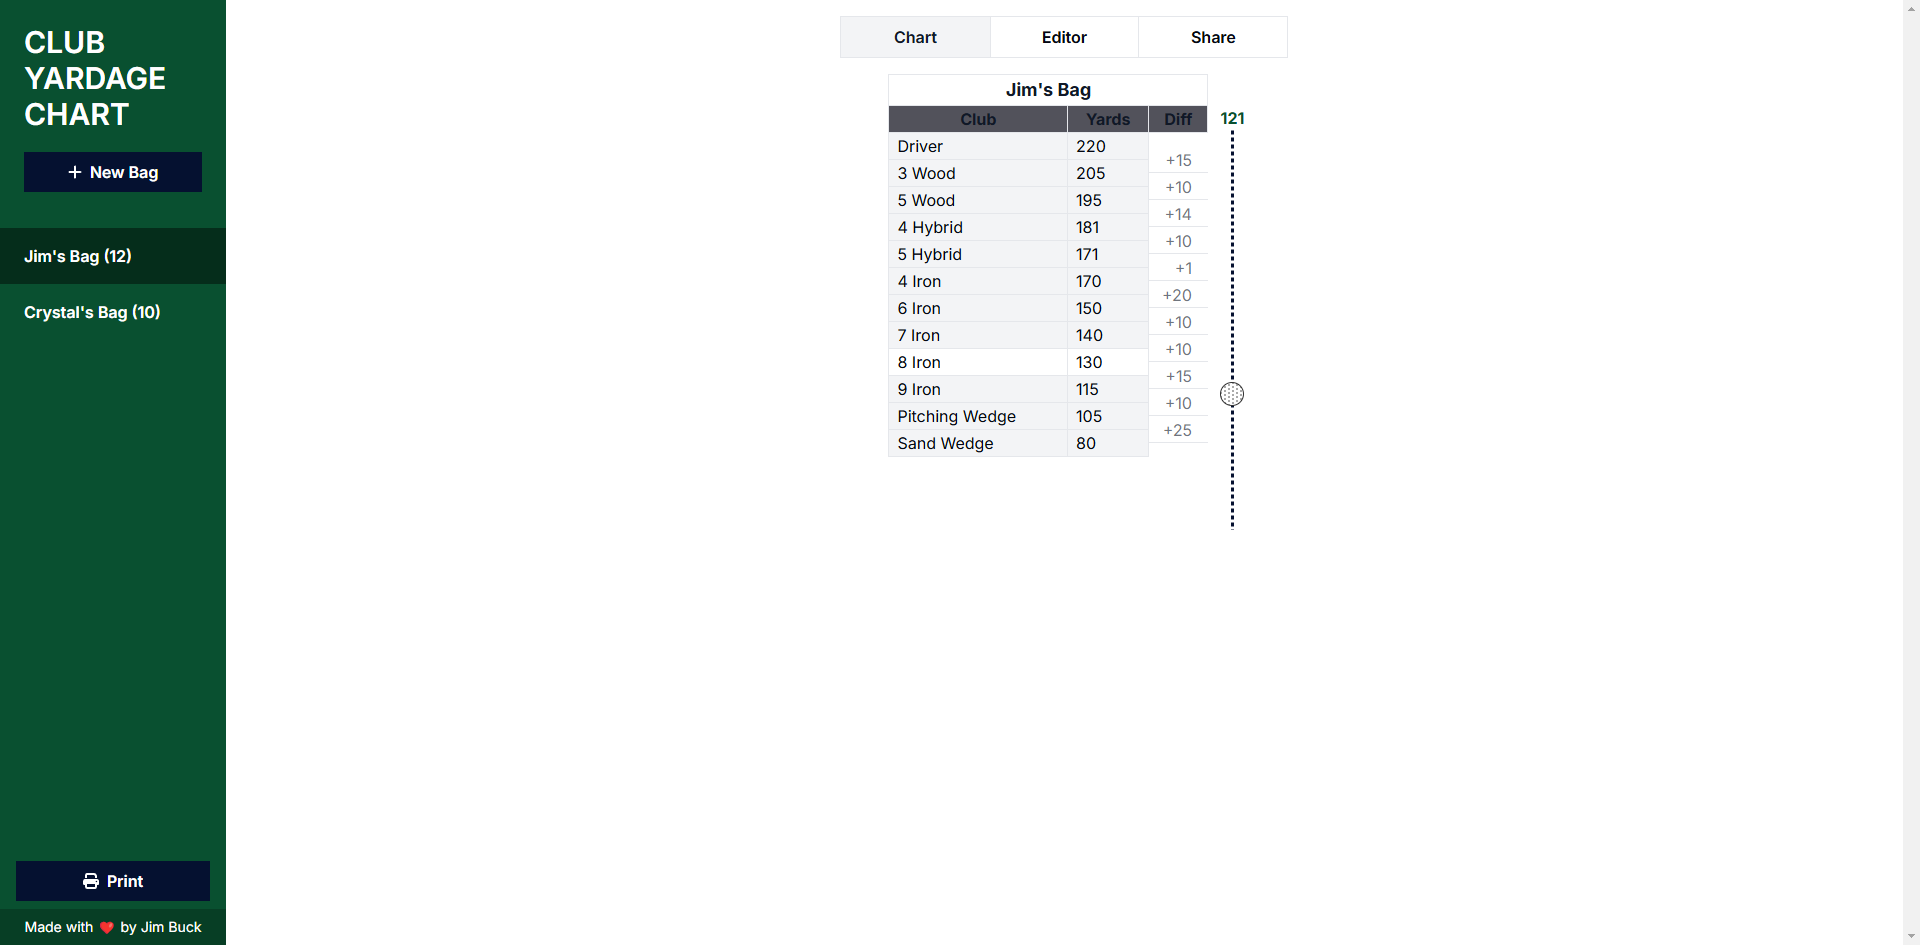
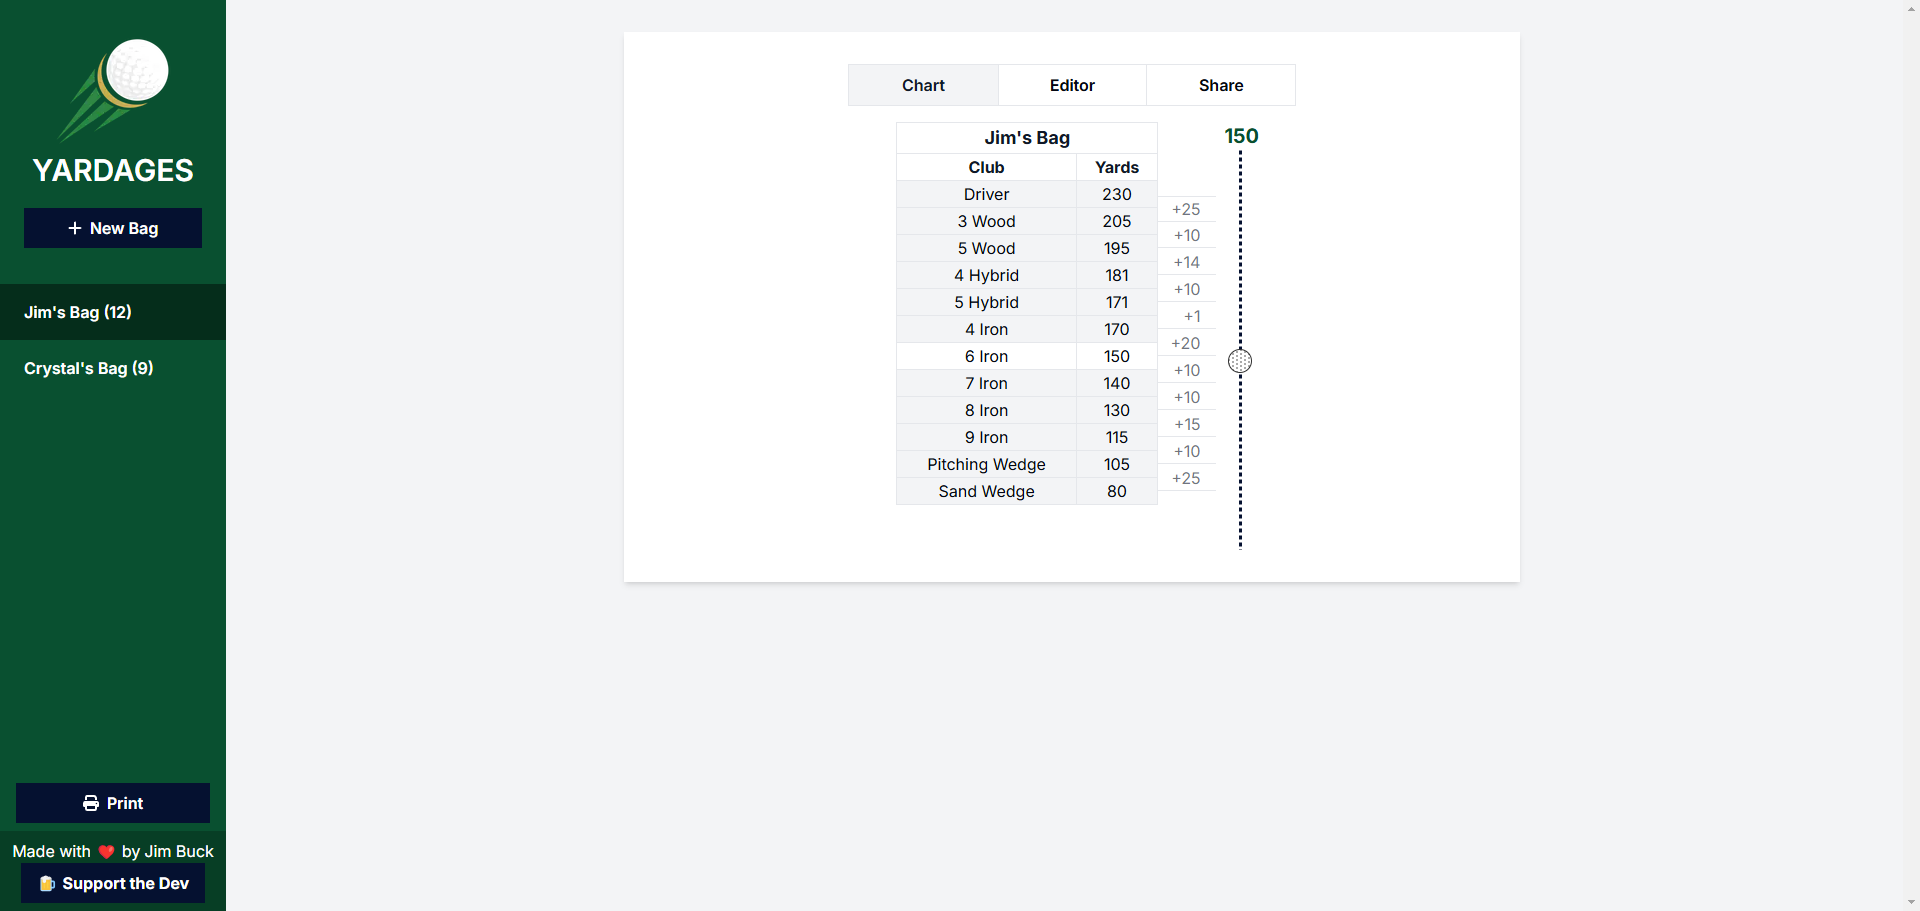
Updated screenshots and mobile padding.

diff --git a/src/app/bag/page.tsx b/src/app/bag/page.tsx
@@ -32,23 +32,23 @@ export default function BagPage() {
 
   return (<>
     <div className="flex items-start justify-center min-h-full bg-gray-100">
-      <div className="bg-white p-8 shadow-md w-full max-w-full w-fit sm:max-w-4xl text-center mt-8 mx-2 sm:mx-0">
+      <div className="bg-white p-8 shadow-md w-full max-w-full w-fit sm:max-w-4xl text-center mt-2 sm:mt-8 mx-2 sm:mx-0">
         <div className="w-full flex justify-center px-2 sm:px-8">
-      <div className="flex w-full max-w-md mx-auto">
-        <button className={cn('w-full py-2 border border-input bg-background hover:bg-accent hover:text-accent-foreground font-semibold border-r-0', pageMode === PageMode.Chart && 'bg-accent text-accent-foreground')} onClick={() => setPageMode(PageMode.Chart)}>Chart</button>
-        <button className={cn('w-full py-2 border border-input bg-background hover:bg-accent hover:text-accent-foreground font-semibold', pageMode === PageMode.Editor && 'bg-accent text-accent-foreground')} onClick={() => setPageMode(PageMode.Editor)}>Editor</button>
-        <button className={cn('w-full py-2 border border-input bg-background hover:bg-accent hover:text-accent-foreground font-semibold border-l-0', pageMode === PageMode.Share && 'bg-accent text-accent-foreground')} onClick={() => setPageMode(PageMode.Share)}>Share</button>
-      </div>
-    </div>
+          <div className="flex w-full max-w-md mx-auto">
+            <button className={cn('w-full py-2 border border-input bg-background hover:bg-accent hover:text-accent-foreground font-semibold border-r-0', pageMode === PageMode.Chart && 'bg-accent text-accent-foreground')} onClick={() => setPageMode(PageMode.Chart)}>Chart</button>
+            <button className={cn('w-full py-2 border border-input bg-background hover:bg-accent hover:text-accent-foreground font-semibold', pageMode === PageMode.Editor && 'bg-accent text-accent-foreground')} onClick={() => setPageMode(PageMode.Editor)}>Editor</button>
+            <button className={cn('w-full py-2 border border-input bg-background hover:bg-accent hover:text-accent-foreground font-semibold border-l-0', pageMode === PageMode.Share && 'bg-accent text-accent-foreground')} onClick={() => setPageMode(PageMode.Share)}>Share</button>
+          </div>
+        </div>
 
-    <div className={cn('printable print:flex print:pl-8 print:pt-8 w-full max-w-4xl mx-auto hidden', pageMode === PageMode.Chart && 'block')}>
-      <InteractiveYardageChart bag={bag} />
-    </div>
-    <div className={cn('print:hidden w-full max-w-4xl mx-auto hidden', pageMode === PageMode.Editor && 'block')}>
-      <BagEditor bagId={bagId} />
-    </div>
-    <div className={cn('w-full flex flex-col items-center pt-4 h-80 overflow-hidden hidden', pageMode === PageMode.Share && 'flex')}>
-      <BagQR bag={bag} />
+        <div className={cn('printable print:flex print:pl-8 print:pt-8 w-full max-w-4xl mx-auto hidden', pageMode === PageMode.Chart && 'block')}>
+          <InteractiveYardageChart bag={bag} />
+        </div>
+        <div className={cn('print:hidden w-full max-w-4xl mx-auto hidden', pageMode === PageMode.Editor && 'block')}>
+          <BagEditor bagId={bagId} />
+        </div>
+        <div className={cn('w-full flex flex-col items-center pt-4 h-80 overflow-hidden hidden', pageMode === PageMode.Share && 'flex')}>
+          <BagQR bag={bag} />
         </div>
       </div>
     </div>

diff --git a/src/app/i/page.tsx b/src/app/i/page.tsx
@@ -23,7 +23,7 @@ export default function ImportBag() {
 
 	return (
 		<div className="flex items-start justify-center min-h-full bg-gray-100">
-			<div className="bg-white p-8 shadow-md w-full max-w-full w-fit sm:max-w-4xl text-center mt-8 mx-2 sm:mx-0">
+			<div className="bg-white p-8 shadow-md w-full max-w-full w-fit sm:max-w-4xl text-center mt-2 sm:mt-8 mx-2 sm:mx-0">
 				<div className="flex flex-col justify-center max-w-sm mx-auto">
 					<h1 className="text-2xl">Import Bag?</h1>
 					<ul className={cn('hidden text-destructive', (bagExists || matchingName) && 'block')}>
@@ -33,7 +33,7 @@ export default function ImportBag() {
 					<YardageChart bag={bag} />
 					<div className="grid grid-cols-[1fr_1fr] gap-2">
 						<button className="border border-input bg-background hover:bg-accent hover:text-accent-foreground font-semibold py-2 mt-5 flex items-center justify-center" onClick={() => router.push('/')}>Cancel</button>
-						<button className="border border-input bg-background hover:bg-accent hover:text-accent-foreground font-semibold py-2 mt-5 flex items-center justify-center" onClick={() => saveBag(bag)}>{bagExists ? 'Update' : 'Import'}</button>
+						<button className="border border-input bg-navy text-white hover:bg-navy-light font-semibold py-2 mt-5 flex items-center justify-center" onClick={() => saveBag(bag)}>{bagExists ? 'Update' : 'Import'}</button>
 					</div>
 				</div>
 			</div>

diff --git a/src/app/page.tsx b/src/app/page.tsx
@@ -20,7 +20,7 @@ export default function Home() {
 
   return (<>
     <div className="flex items-start justify-center min-h-full bg-gray-100">
-      <div className="bg-white p-8 shadow-md text-center mt-8 mx-2 sm:mx-0 max-w-md">
+      <div className="bg-white p-8 shadow-md text-center mt-2 sm:mt-8 mx-2 sm:mx-0 max-w-md">
         <h1 className="text-2xl font-bold mb-4">Welcome to Yardages!</h1>
         <p className="text-gray-700 mb-6">
           Track the distance you hit with each golf club and improve your game. Get started by creating a new bag or selecting an existing one from the menu.

diff --git a/src/app/print/page.tsx b/src/app/print/page.tsx
@@ -16,7 +16,7 @@ export default function Print() {
 
 	return (<>
 		<div className="flex items-start justify-center min-h-full bg-gray-100">
-			<div className="bg-white p-8 shadow-md w-full max-w-full w-fit sm:max-w-4xl text-center mt-8 mx-2 sm:mx-0">
+			<div className="bg-white p-8 shadow-md w-full max-w-full w-fit sm:max-w-4xl text-center mt-2 sm:mt-8 mx-2 sm:mx-0">
 				<div className="print:hidden">
 			{bags.map((bag, index) => (
 				<div key={`${bag.name}_${bag.id}`} className="bg-white p-4 mb-4">
